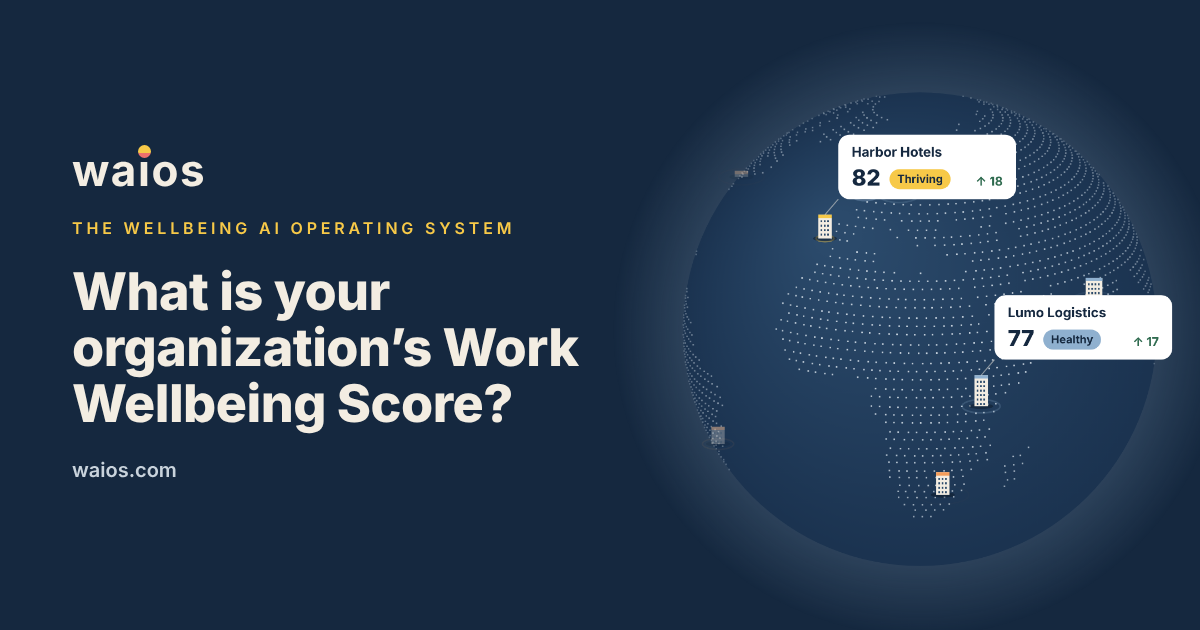
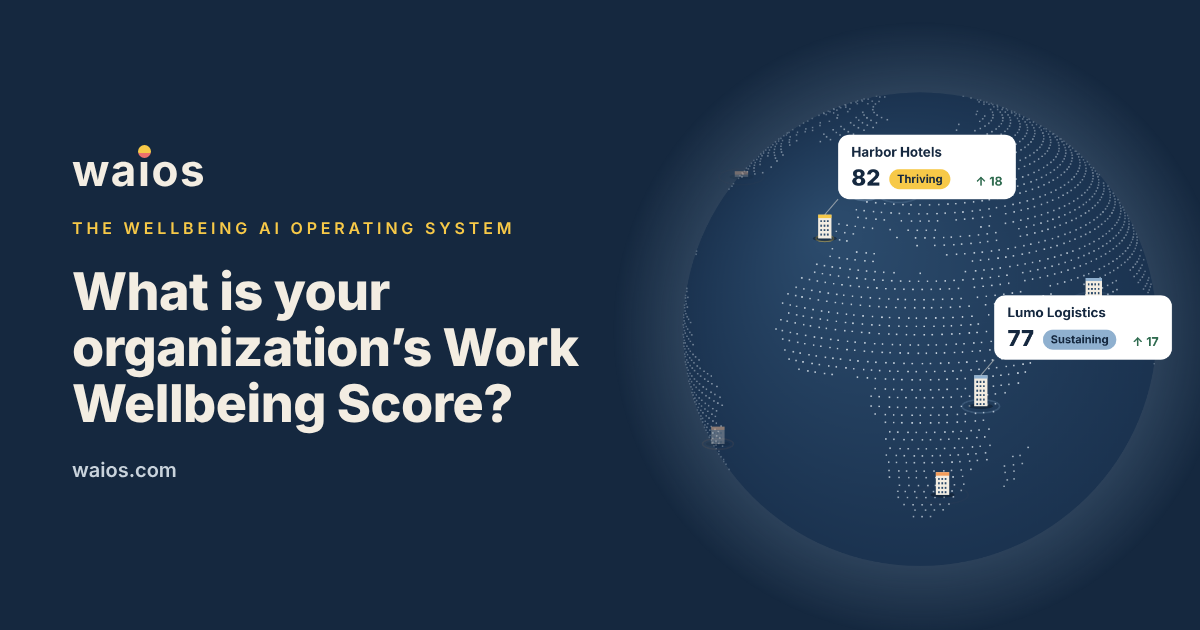
Score bands: Thriving, Sustaining, At risk
Claude-Session: https://claude.ai/code/session_01XVxpRtjDpYwPLAhw5wKxgy

diff --git a/public/index.html b/public/index.html
@@ -53,7 +53,7 @@ a{color:#15283F}a:hover{color:#EF6F6C}
 <div style="position: relative; width: 100%; aspect-ratio: 1 / 1">
 <canvas role="img" aria-label="A rotating globe. Office buildings rise up at workplaces around the world, each labeled with a company name and a Work Wellbeing Score that rises over time." style="position: absolute; inset: 0; width: 100%; height: 100%; display: block" width="576" height="576"></canvas>
 </div>
-<figcaption style="display: flex; flex-wrap: wrap; justify-content: center; gap: 8px 18px; font-size: 13px; color: #C9D3DC"><span style="display: inline-flex; align-items: center; gap: 8px"><span aria-hidden="true" style="width: 9px; height: 9px; border-radius: 50%; background: #F7C948"></span>Thriving</span><span style="display: inline-flex; align-items: center; gap: 8px"><span aria-hidden="true" style="width: 9px; height: 9px; border-radius: 50%; background: #8FB0CF"></span>Healthy</span><span style="display: inline-flex; align-items: center; gap: 8px"><span aria-hidden="true" style="width: 9px; height: 9px; border-radius: 50%; background: #F39C5A"></span>Watch</span><span style="color: #9FB0BF">Illustrative companies</span></figcaption>
+<figcaption style="display: flex; flex-wrap: wrap; justify-content: center; gap: 8px 18px; font-size: 13px; color: #C9D3DC"><span style="display: inline-flex; align-items: center; gap: 8px"><span aria-hidden="true" style="width: 9px; height: 9px; border-radius: 50%; background: #F7C948"></span>Thriving</span><span style="display: inline-flex; align-items: center; gap: 8px"><span aria-hidden="true" style="width: 9px; height: 9px; border-radius: 50%; background: #8FB0CF"></span>Sustaining</span><span style="display: inline-flex; align-items: center; gap: 8px"><span aria-hidden="true" style="width: 9px; height: 9px; border-radius: 50%; background: #F39C5A"></span>At risk</span><span style="color: #9FB0BF">Illustrative companies</span></figcaption>
 </figure>
 </div>
 </section>
@@ -155,7 +155,7 @@ a{color:#15283F}a:hover{color:#EF6F6C}
 <div style="position: relative; width: 100%; aspect-ratio: 1 / 1">
 <canvas ref="{{globeRef}}" role="img" aria-label="A rotating globe. Office buildings rise up at workplaces around the world, each labeled with a company name and a Work Wellbeing Score that rises over time." style="position: absolute; inset: 0; width: 100%; height: 100%; display: block"></canvas>
 </div>
-<figcaption style="display: flex; flex-wrap: wrap; justify-content: center; gap: 8px 18px; font-size: 13px; color: #C9D3DC"><span style="display: inline-flex; align-items: center; gap: 8px"><span aria-hidden="true" style="width: 9px; height: 9px; border-radius: 50%; background: #F7C948"></span>Thriving</span><span style="display: inline-flex; align-items: center; gap: 8px"><span aria-hidden="true" style="width: 9px; height: 9px; border-radius: 50%; background: #8FB0CF"></span>Healthy</span><span style="display: inline-flex; align-items: center; gap: 8px"><span aria-hidden="true" style="width: 9px; height: 9px; border-radius: 50%; background: #F39C5A"></span>Watch</span><span style="color: #9FB0BF">Illustrative companies</span></figcaption>
+<figcaption style="display: flex; flex-wrap: wrap; justify-content: center; gap: 8px 18px; font-size: 13px; color: #C9D3DC"><span style="display: inline-flex; align-items: center; gap: 8px"><span aria-hidden="true" style="width: 9px; height: 9px; border-radius: 50%; background: #F7C948"></span>Thriving</span><span style="display: inline-flex; align-items: center; gap: 8px"><span aria-hidden="true" style="width: 9px; height: 9px; border-radius: 50%; background: #8FB0CF"></span>Sustaining</span><span style="display: inline-flex; align-items: center; gap: 8px"><span aria-hidden="true" style="width: 9px; height: 9px; border-radius: 50%; background: #F39C5A"></span>At risk</span><span style="color: #9FB0BF">Illustrative companies</span></figcaption>
 </figure>
 </div>
 </section>
@@ -257,7 +257,7 @@ class Component extends DCLogic {
       ['Ember Energy', 'Calgary', -114.1, 51.0, 63, 78], ['Prism Media', 'Berlin', 13.4, 52.5, 58, 74],
       ['Summit Partners', 'New York', -74.0, 40.7, 54, 73], ['Torque Auto', 'Detroit', -83.0, 42.3, 51, 70]
     ].map(function (p, k) { return { type: p[0], city: p[1], lon: p[2] * Math.PI / 180, lat: p[3] * Math.PI / 180, a: p[4], b: p[5], seen: -1, phase: k * 0.37 }; });
-    function band(v) { return v >= 80 ? ['Thriving', '#F7C948'] : v >= 68 ? ['Healthy', '#8FB0CF'] : ['Watch', '#F39C5A']; }
+    function band(v) { return v >= 80 ? ['Thriving', '#F7C948'] : v >= 68 ? ['Sustaining', '#8FB0CF'] : ['At risk', '#F39C5A']; }
     var reduce = window.matchMedia && window.matchMedia('(prefers-reduced-motion: reduce)').matches;
     var lon0 = 0.9, tilt = 0.32, last = 0, t0 = 0;
     function rr(ctx, x, y, w, h, r) { ctx.beginPath(); ctx.moveTo(x + r, y); ctx.arcTo(x + w, y, x + w, y + h, r); ctx.arcTo(x + w, y + h, x, y + h, r); ctx.arcTo(x, y + h, x, y, r); ctx.arcTo(x, y, x + w, y, r); ctx.closePath(); }
